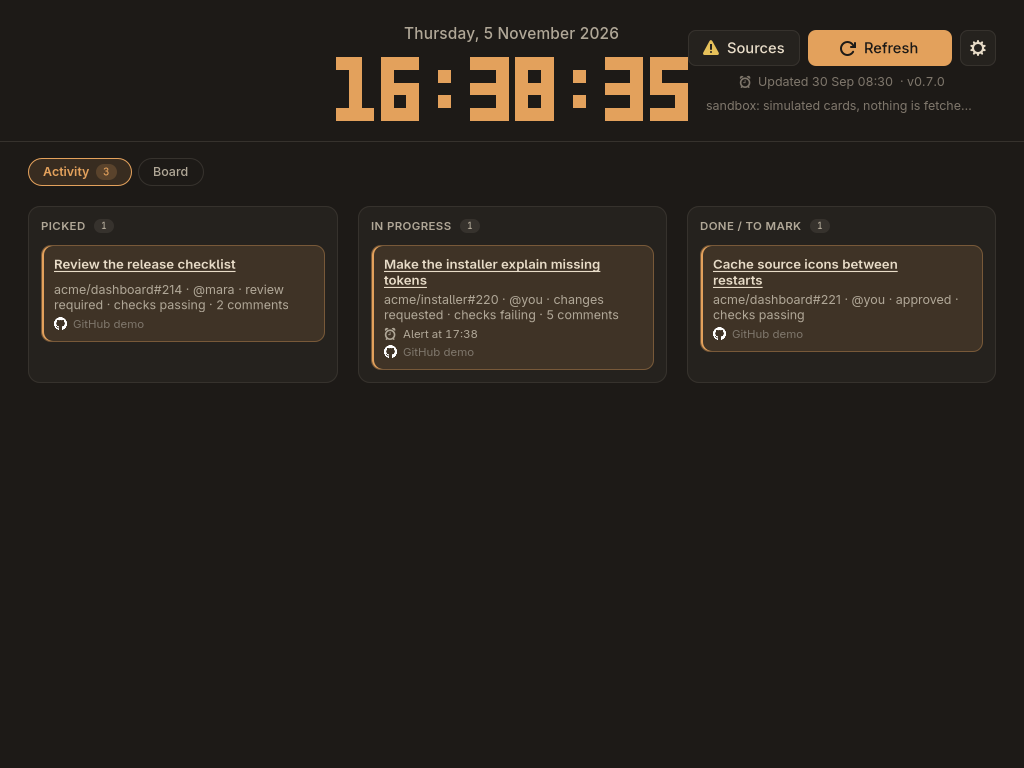
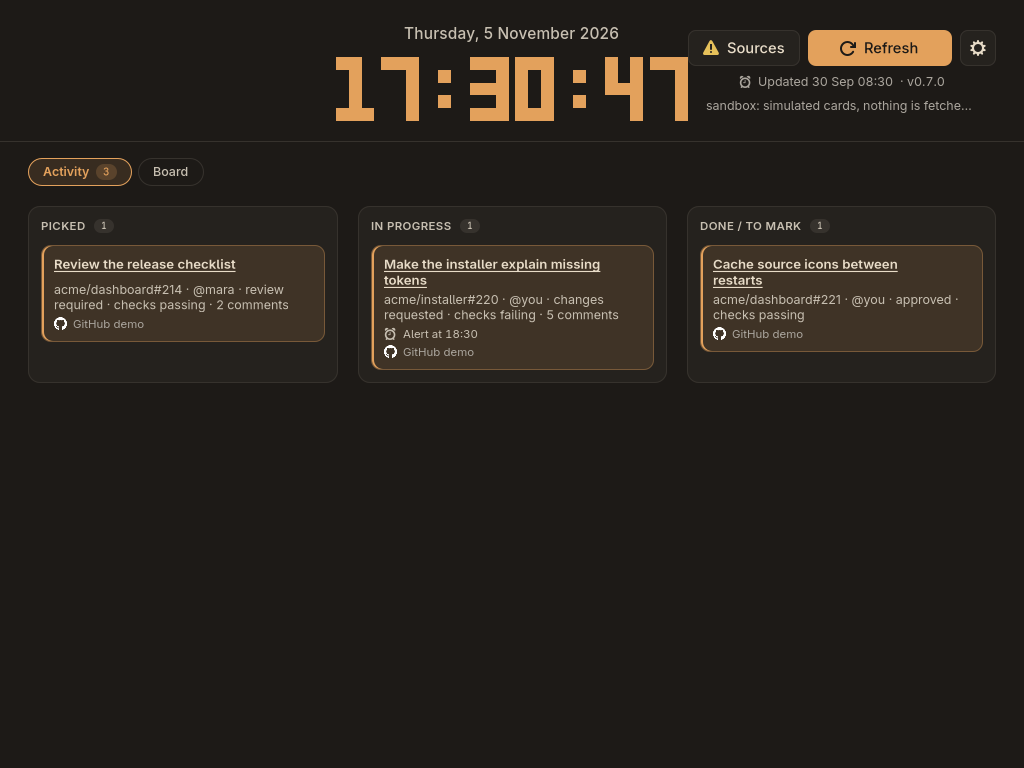
docs: readable Omarchy colours
The design notes, the agents guide and the changelog say how a theme's
colours are made to read, and the picture of the window in the sample
Omarchy theme is taken again with its lighter captions.

diff --git a/crates/pending-app/DESIGN.md b/crates/pending-app/DESIGN.md
@@ -109,7 +109,7 @@ Dark, the default:
 
 Light, when the system asks: Page (#f6f7f9), Group (#ffffff), Card (#f1f3f6), Card hover (#e8ebf0), Border (#e4e7ec), Strong border (#d3d8e0), Text (#15181e), Text 2 (#555d6b), Text 3 (#8a91a0), Accent (#4f5ee8), OK (#16a36a), Warning (#c98a06), Danger (#d9364e).
 
-Omarchy, when chosen in Settings: the theme Omarchy applied, dark or light as its `colors.toml` says. Its background, text and accent are used as they are, and its green, yellow and red for the states (the window's own when it has none). The other colours are mixed from those in the same proportions as the palettes above: the surfaces and borders from the background towards the text (a light theme's group surface towards white), Text 2 and Text 3 from the text towards the background, the accent hover towards white. Text on the accent is white or the theme's dark colour (its background, or its text on a light theme), whichever has more contrast with the accent. The window changes with the theme.
+Omarchy, when chosen in Settings: the theme Omarchy applied, dark or light as its `colors.toml` says. Its background, text and accent are used as they are, and its green, yellow and red for the states (the window's own when it has none). The other colours are mixed from those in the same proportions as the palettes above: the surfaces and borders from the background towards the text (a light theme's group surface towards white), Text 2 and Text 3 from the text towards the background, the accent hover towards white. Text on the accent is white or the theme's dark colour (its background, or its text on a light theme), whichever has more contrast with the accent. Whatever is written in the theme's colours then reads at 4.5:1 (WCAG AA) on the grounds it is written on, as flea does it: a colour short of that is walked towards white (black on a light theme), which keeps its hue, only as far as it takes. That covers the three texts on the page, groups, cards (hovered and marked), counts and notices, the accent as text on those and on a checked tab (the accent as a fill and a frame stays as the theme has it), each state there and on its own chip, and the text on the accent. Text 2 keeps its place between Text and Text 3, so the three keep their order. A state the theme draws without hue (saturation of 0.2 or less, as on Omarchy's white, Vantablack and Solitude) cannot say what it means and, in grey, reads as switched off, so it is drawn in the theme's text colour. The window changes with the theme.
 
 Borders carry the structure; shadows only lift the card menu and the dialogs, and never blur anything behind them.
 

diff --git a/AGENTS.md b/AGENTS.md
@@ -47,7 +47,7 @@ Do not treat `make ci` as read-only; it runs formatters. Use `make ci-check` whe
 
 GTK4 and libadwaita, through `gtk4-rs` and `libadwaita-rs` without a component framework. The oldest supported versions are GTK 4.14 and libadwaita 1.5 (Ubuntu 24.04, where CI builds); do not use newer API without raising the crate features and the documented minimum.
 
-Visual style: simple and quiet, described in `crates/pending-app/DESIGN.md` (read it before changing how the window looks). Colours come from the app's own palette in `crates/pending-app/src/theme.rs` (dark by default, light when the system asks), filled into `crates/pending-app/src/style.css`; Settings can switch to Omarchy's theme, read from its `colors.toml` and mixed in the same proportions (`theme::parse_omarchy`). Never GTK theme colours. A new colour is a token in both: the `Palette`, its value in `DARK` and `LIGHT`, and its mix from an Omarchy theme. Icons are the system's symbolic icons (names present in Adwaita and Yaru); source logos are fetched from their configured URL. Cards carry no severity colour or label. Thin 1px borders over shadows, one accent, 6/12/18 px rhythm.
+Visual style: simple and quiet, described in `crates/pending-app/DESIGN.md` (read it before changing how the window looks). Colours come from the app's own palette in `crates/pending-app/src/theme.rs` (dark by default, light when the system asks), filled into `crates/pending-app/src/style.css`; Settings can switch to Omarchy's theme, read from its `colors.toml`, mixed in the same proportions and made to read at 4.5:1 on its grounds (`theme::parse_omarchy`). Never GTK theme colours. A new colour is a token in both: the `Palette`, its value in `DARK` and `LIGHT`, and its mix from an Omarchy theme. Icons are the system's symbolic icons (names present in Adwaita and Yaru); source logos are fetched from their configured URL. Cards carry no severity colour or label. Thin 1px borders over shadows, one accent, 6/12/18 px rhythm.
 
 The app's tests need no display (CI has none): what they check lives outside the widgets, in `present`, `state`, `view` and `backend`, against a stand-in daemon on a loopback port. Widget lifetimes (closures that capture a widget hold it alive: capture it weakly when the widget owns the closure) and keyboard focus (never `can_focus(false)` on a container, which shuts its children out) are checked by hand on a display.
 

diff --git a/CHANGELOG.md b/CHANGELOG.md
@@ -4,7 +4,7 @@
 
 ### Features
 
-- **Theme** in Settings: **TasksPending**, the window's own colours and still the default, or **Omarchy**, which follows the theme Omarchy applied (dark or light as the theme says) and changes with it when you switch themes. The colours Omarchy's `colors.toml` does not name are mixed from its background, text and accent in the same proportions as the window's own palette. Text on the accent is white or dark, whichever stands out more on it. The choice is kept in `app-view.json`.
+- **Theme** in Settings: **TasksPending**, the window's own colours and still the default, or **Omarchy**, which follows the theme Omarchy applied (dark or light as the theme says) and changes with it when you switch themes. The colours Omarchy's `colors.toml` does not name are mixed from its background, text and accent in the same proportions as the window's own palette. Text on the accent is white or dark, whichever stands out more on it. A theme colour that would be hard to read is lightened (darkened on a light theme) to 4.5:1 on what it is written on, keeping its hue, and a state the theme draws in grey is drawn in its text colour. The choice is kept in `app-view.json`.
 
 ### Changed
 
